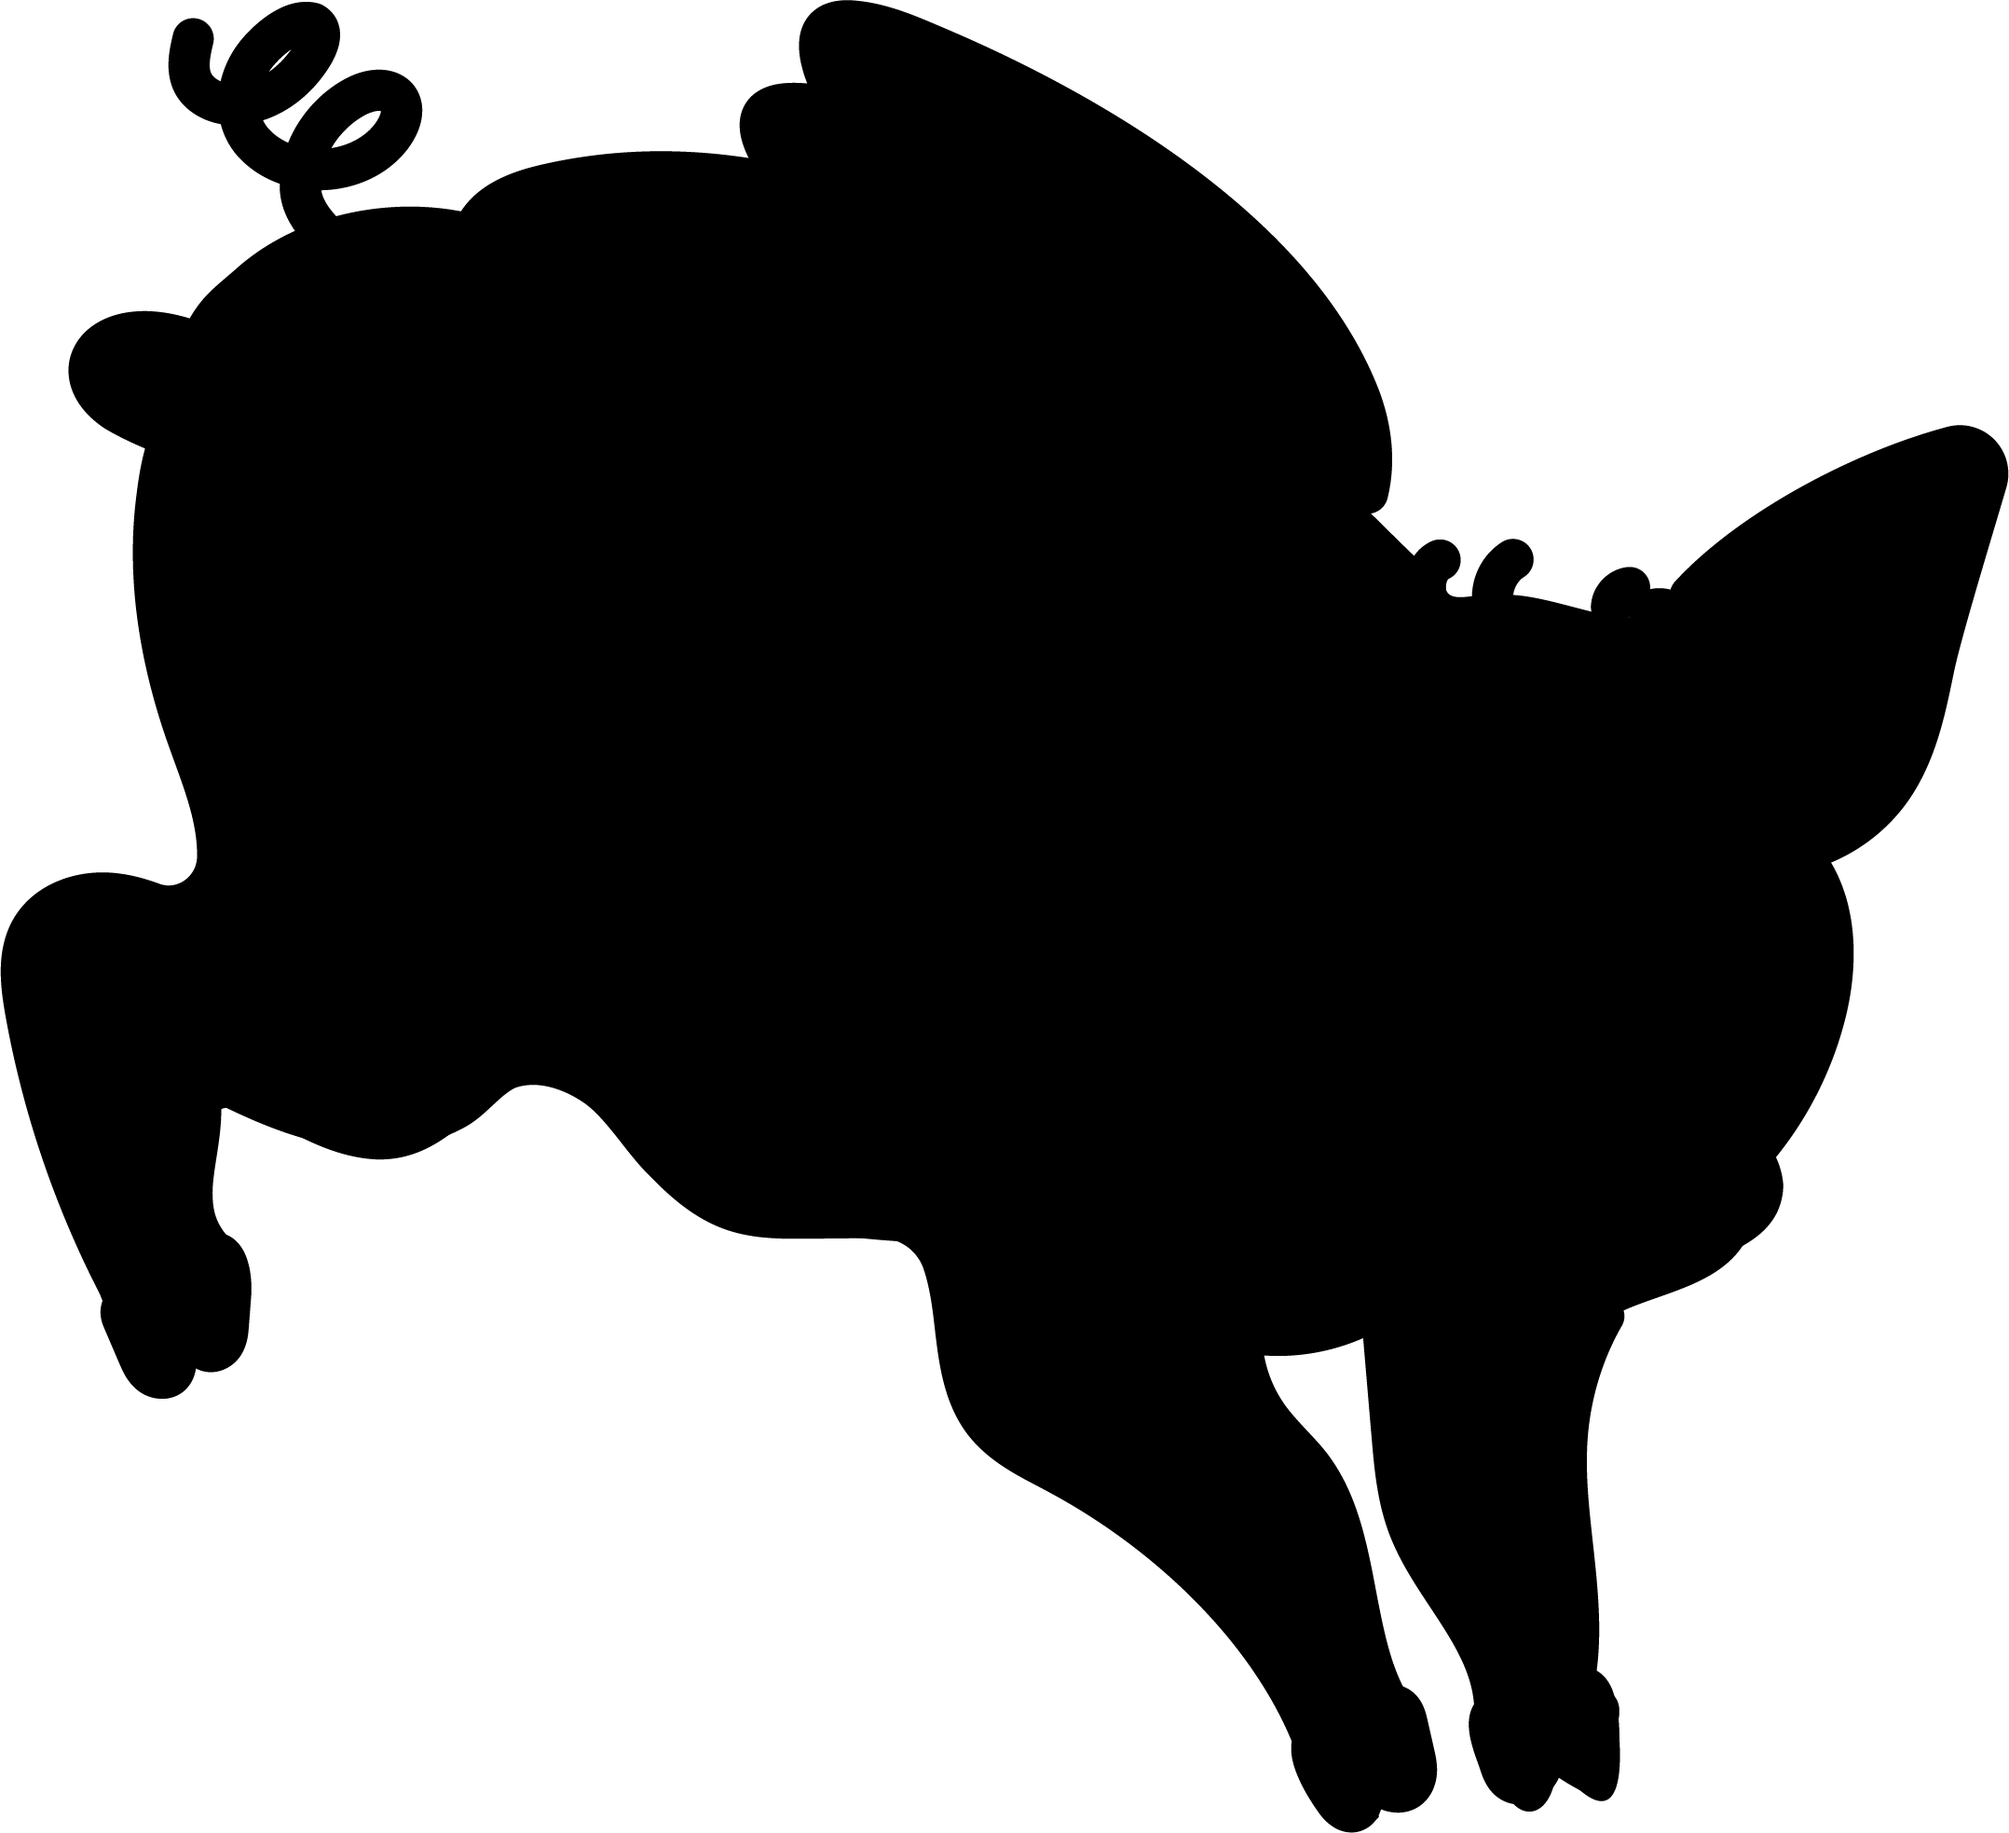
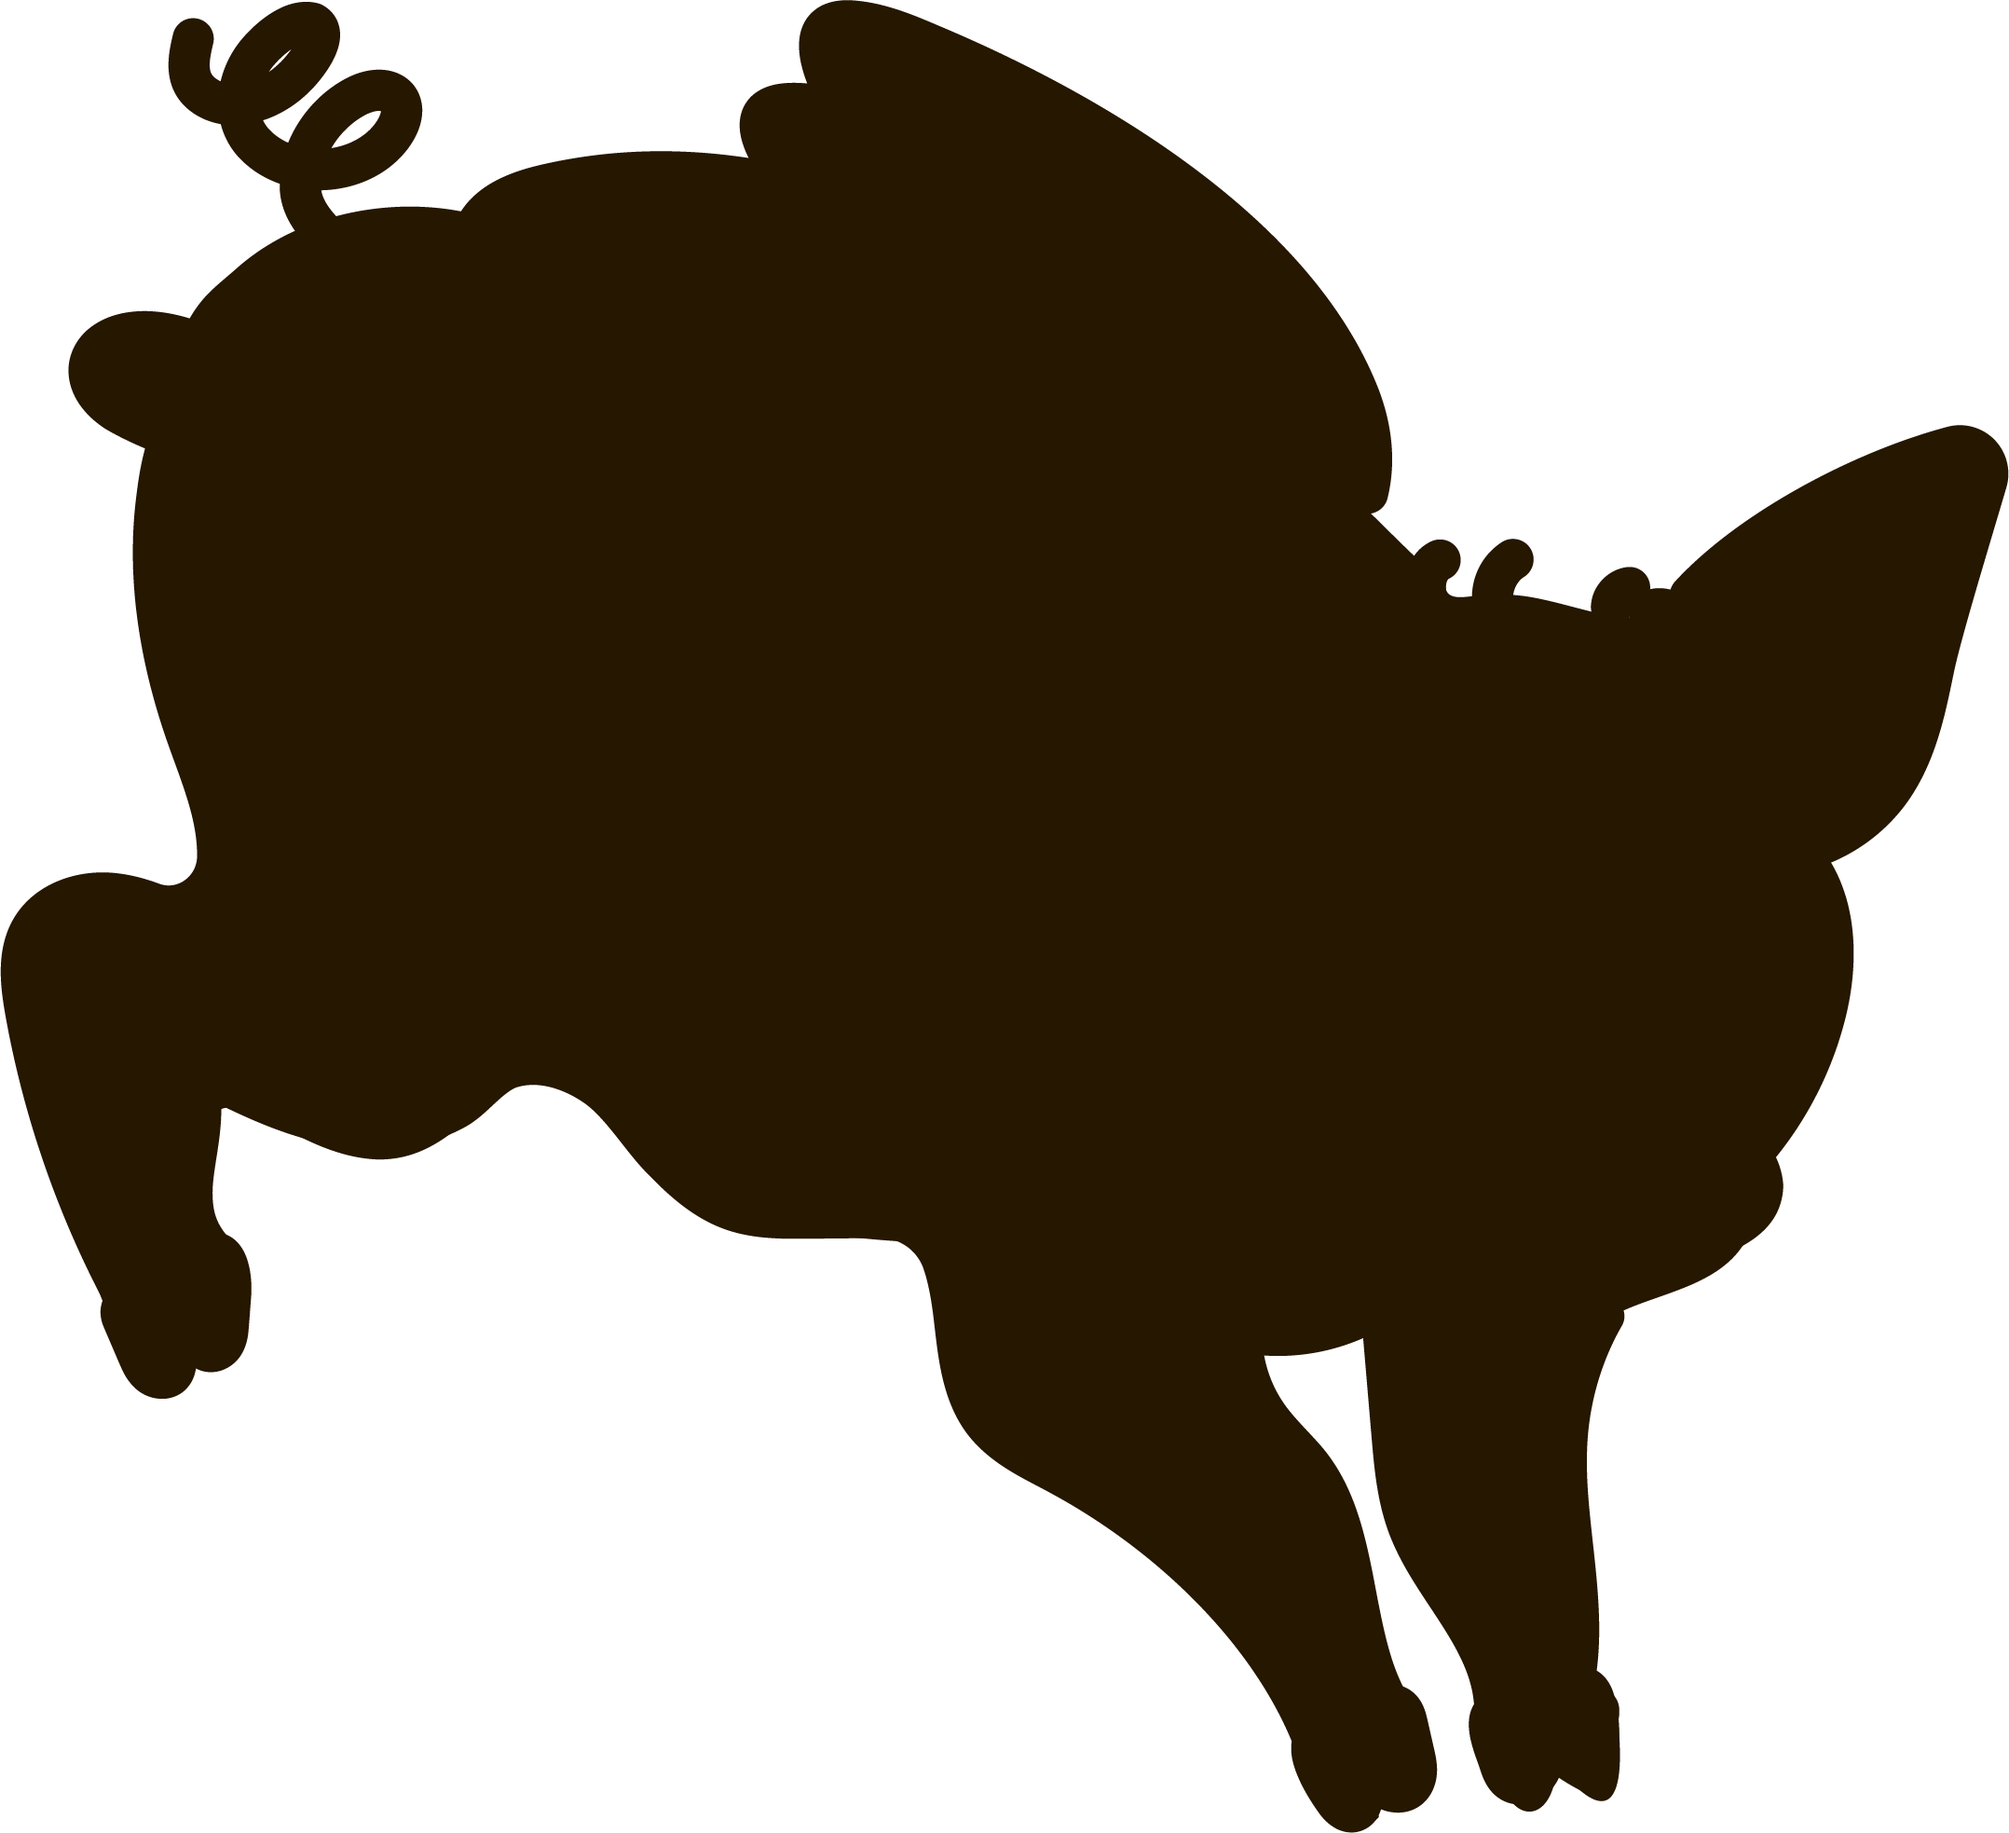
마퀸부분누르면 편지 뜨게만 하면 완료

diff --git a/style.css b/style.css
@@ -11,10 +11,6 @@ body {
   overflow: hidden;
 }
 
-body {
-  background-color: #87ceeb;
-}
-
 #webgl {
   display: block;
   width: 100%;
@@ -23,7 +19,7 @@ body {
 }
 
 /* =====================================
-   움직이는 텍스트 영역
+움직이는 텍스트 영역
 ===================================== */
 
 .marquee {
@@ -31,17 +27,19 @@ body {
   top: 0;
   left: 0;
   width: 100%;
-  height: 35px;
+  height: 33px;
   overflow: hidden;
   z-index: 99;
 
   display: flex;
   align-items: center;
 
-  background-color: #eacf03;
-  color: #111;
-  font-size: 13px;
-  font-weight: 600;
+  background-color: #01ffffd4;
+  color: #251700;
+  /* color: #ffee03f1; */
+
+  font-size: 13.5px;
+  font-weight: 700;
 }
 
 .track {
@@ -82,8 +80,8 @@ body {
   position: fixed;
 
   /* 마퀴 바로 아래 오른쪽 */
-  top: 50px;
-  right: 30px;
+  top: 1000px;
+  right: 35px;
 
   width: 150px;
   height: 150px;
@@ -103,6 +101,16 @@ body {
   height: 100%;
   object-fit: contain;
   display: block;
+}
+
+.sound-button:hover {
+  transform: scale(1.1);
+  opacity: 0.7;
+}
+
+.sound-button:hover img {
+  filter: brightness(0) saturate(100%) invert(80%) sepia(75%) saturate(2500%)
+    hue-rotate(116deg) brightness(103%) contrast(105%);
 }
 
 .sound-button:hover {

diff --git a/tonkatsu.js b/tonkatsu.js
@@ -81,7 +81,7 @@ export function createTonkatsuSystem(scene, camera, canvas) {
       const ctx = faceCanvas.getContext('2d');
 
       // 투명한 영역은 튀김옷 색상으로 채우기
-      ctx.fillStyle = '#bb7c1c';
+      ctx.fillStyle = '#bb861c';
       ctx.fillRect(0, 0, 1024, 1024);
 
       // 호정 사진 적용
@@ -114,9 +114,9 @@ export function createTonkatsuSystem(scene, camera, canvas) {
   // =====================================
 
   const colorOverlayMaterial = new THREE.MeshBasicMaterial({
-    color: 0xffa32a,
+    color: 0xbb5e1c,
     transparent: true,
-    opacity: 0.25,
+    opacity: 0.35,
     depthWrite: false,
   });
 

diff --git a/main.js b/main.js
@@ -33,13 +33,13 @@ bgLoader.load(
 // =====================================
 
 const camera = new THREE.PerspectiveCamera(
-  45,
+  40,
   window.innerWidth / window.innerHeight,
   0.1,
   1000,
 );
 
-camera.position.set(-20, 8, 18);
+camera.position.set(-20, 5, 18);
 
 // =====================================
 // 4. Renderer
@@ -139,7 +139,7 @@ loader.load(
 
     const aspectRatio = imageWidth / imageHeight;
 
-    const planeWidth = 54;
+    const planeWidth = 40;
     const planeHeight = planeWidth / aspectRatio;
 
     const geometry = new THREE.PlaneGeometry(planeWidth, planeHeight);
